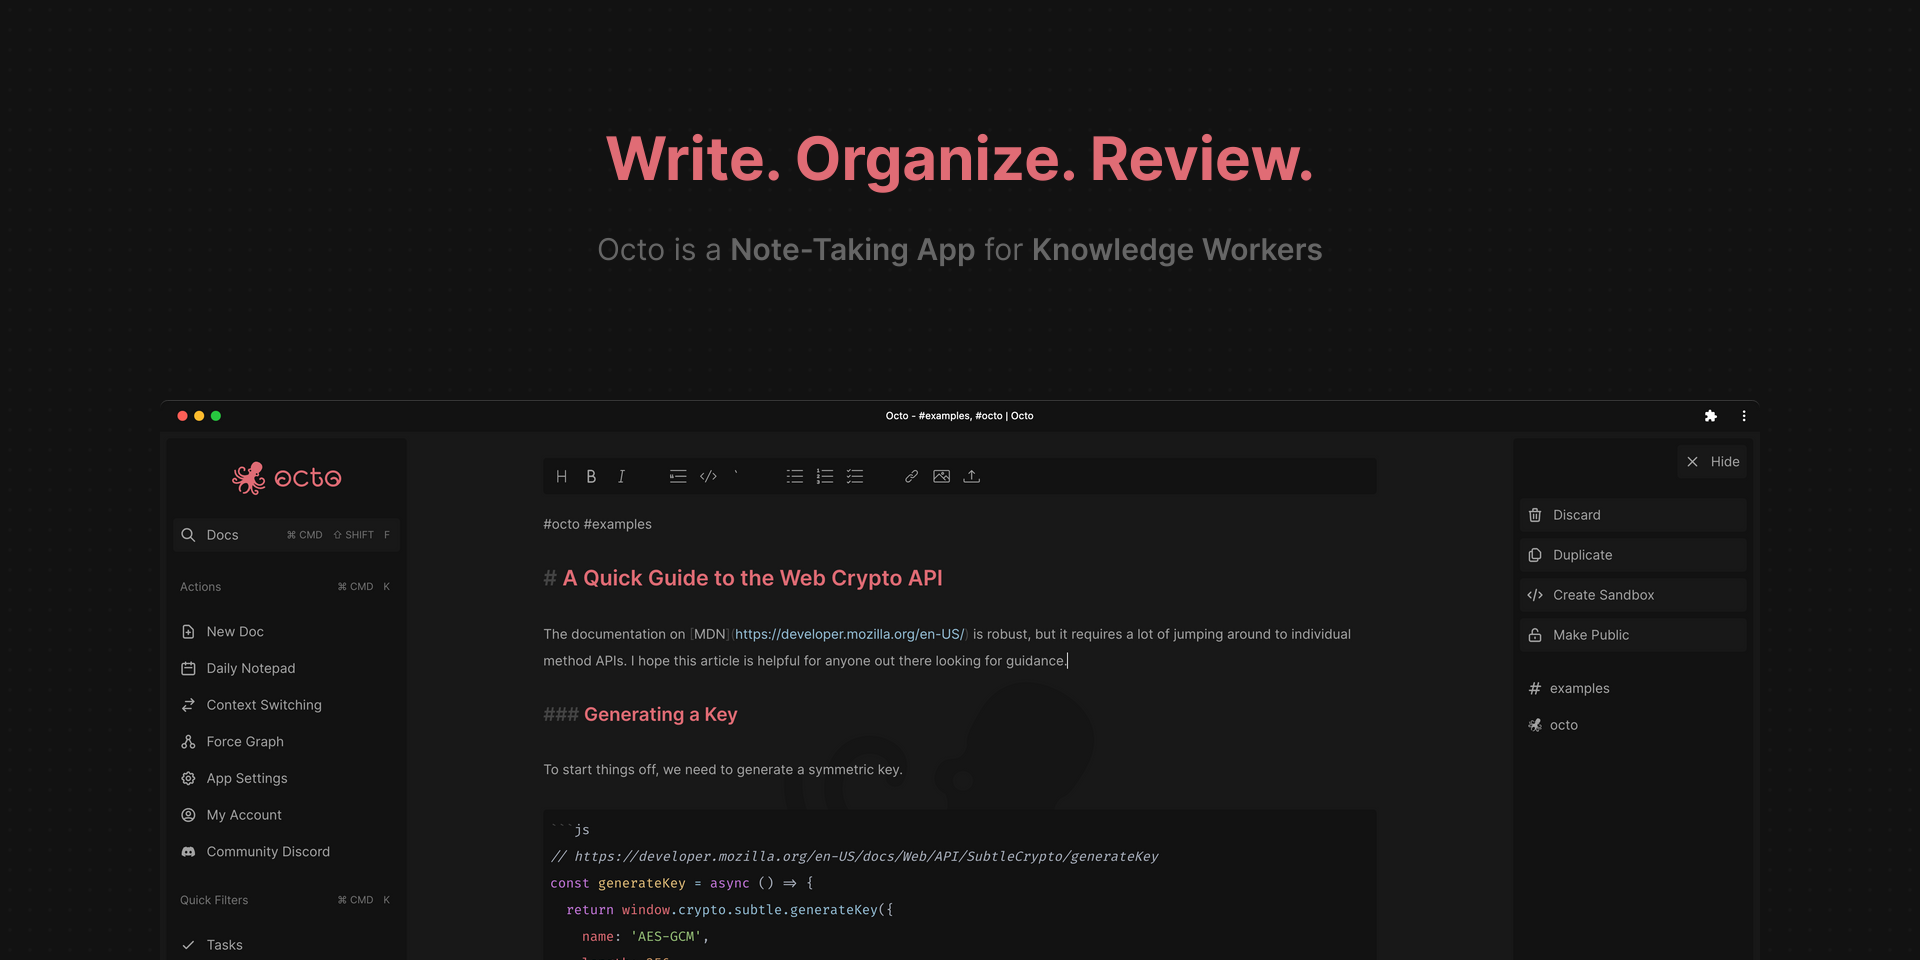
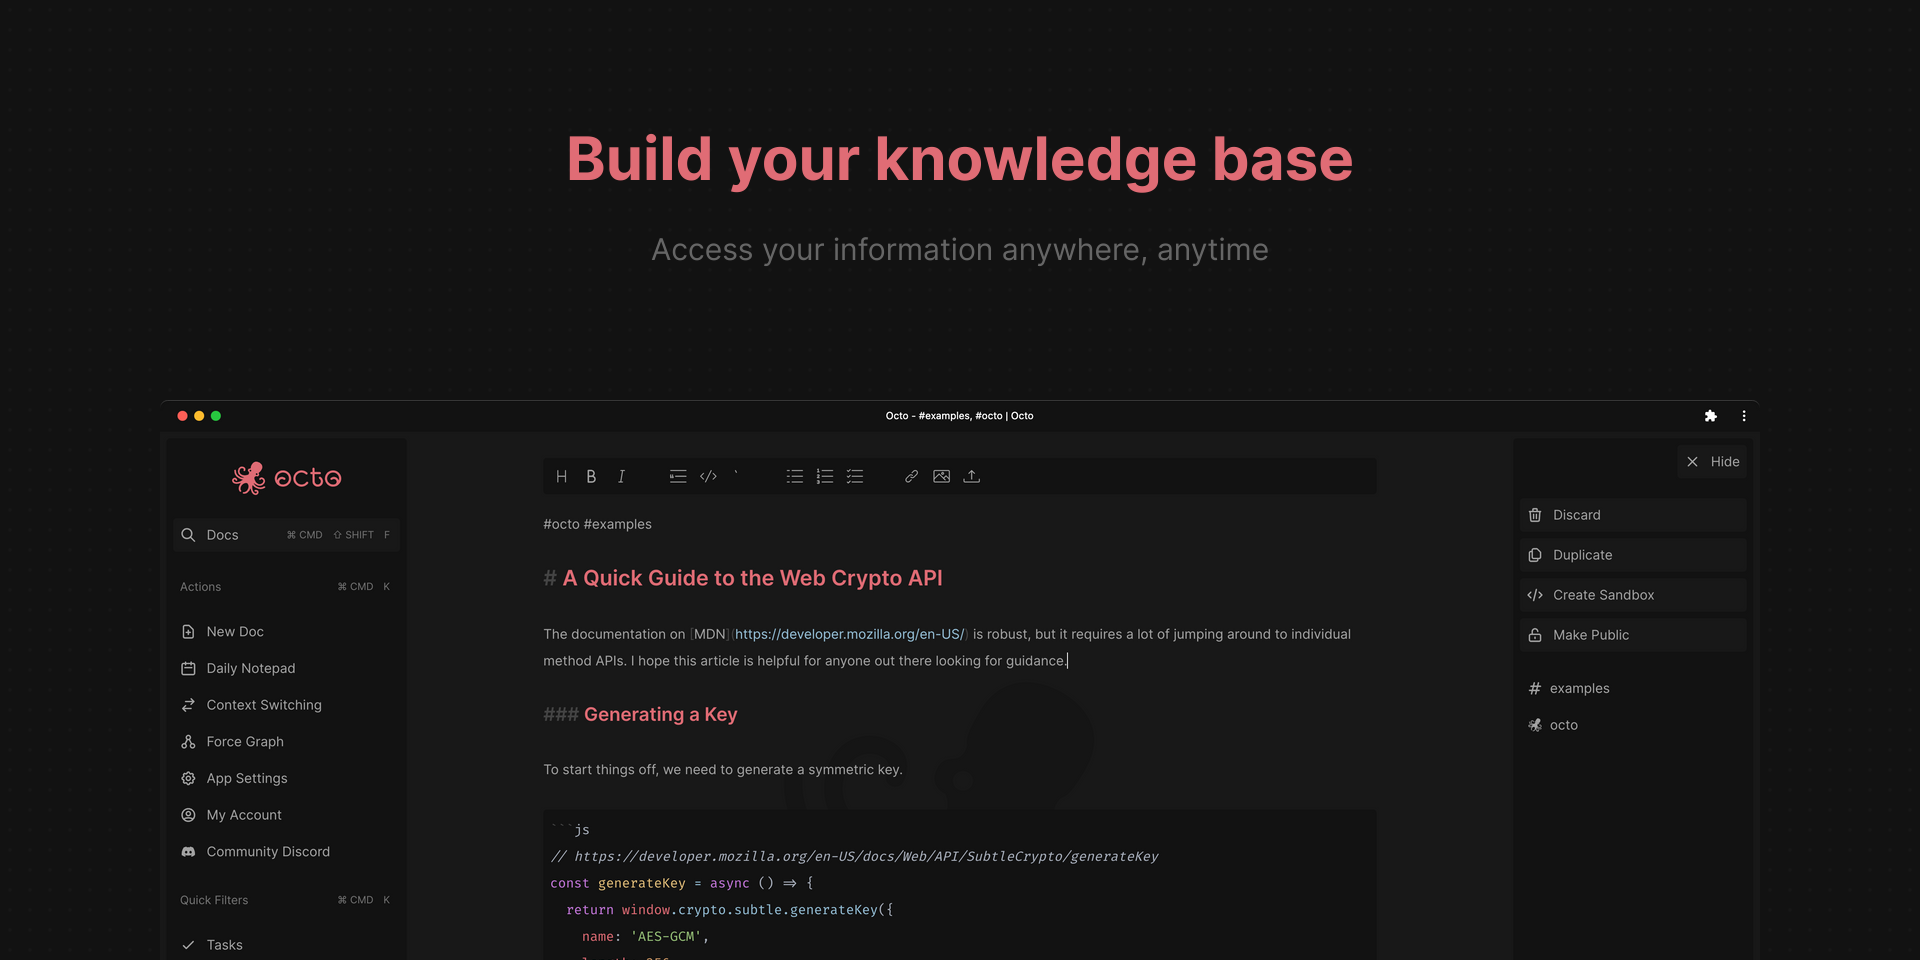
Update Octo details

Changed region(s): [[0.2812, 0.125, 0.7188, 0.2188], [0.3125, 0.25, 0.6875, 0.2812]]

diff --git a/README.md b/README.md
@@ -4,6 +4,6 @@ I'm a Senior Software Engineer at [Doximity](https://work.doximity.com) with a d
 
 #### More about Octo
 
-Octo is an Open Source writing/notes app built specifically for knowledge workers. Unlike other Markdown editors, it offers an all-in-one solution with a focus on privacy, security, and user experience.
+Octo is a personal knowledge base that is available anywhere and anytime you need it.
 
 [![octo.app](octo.png)](https://octo.app)
